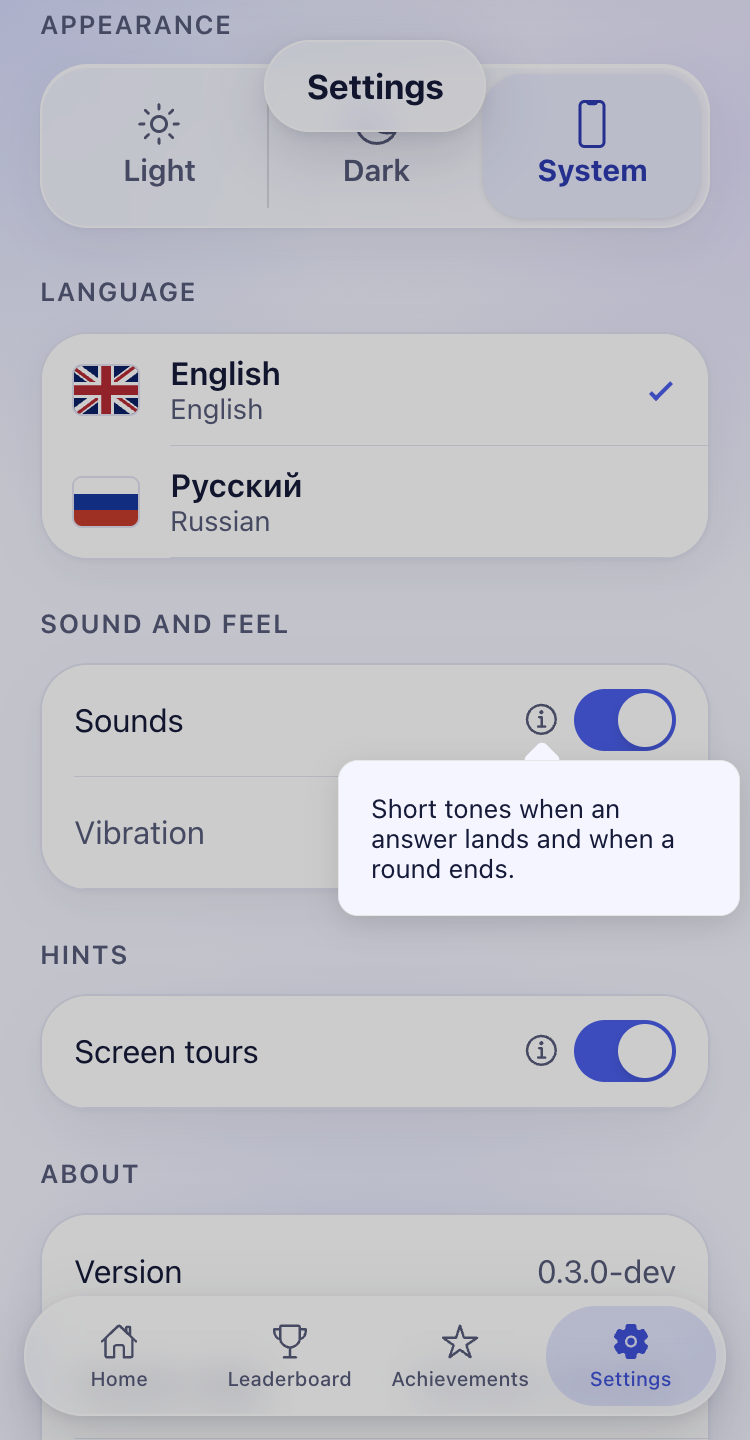
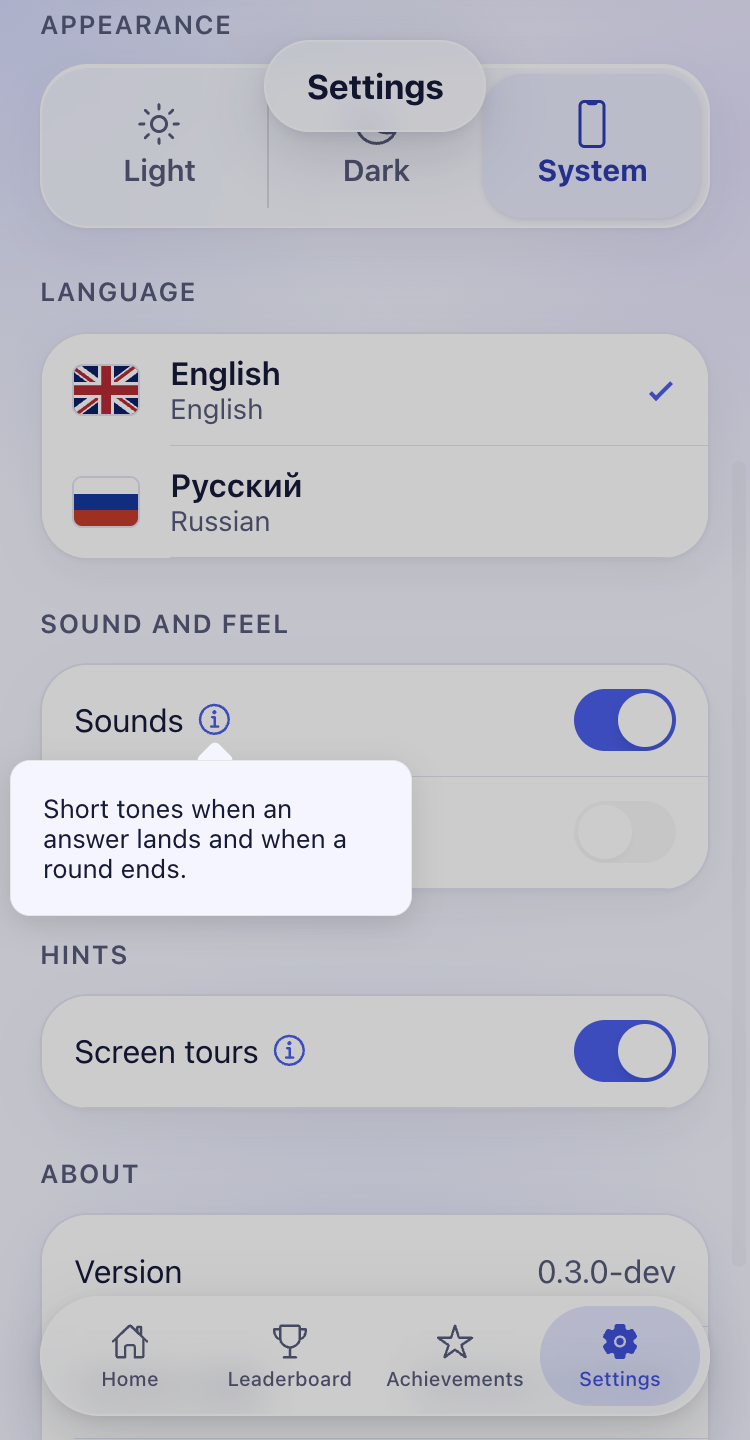
docs: the tour as it ended up, and the one column under it

diff --git a/docs/architecture/design-system.md b/docs/architecture/design-system.md
@@ -23,14 +23,14 @@ applies them to `:root` and Ionic's `:root.ion-palette-dark`, the site to
 Components use semantic names only (`--wq-color-surface`, never `#ffffff`), so
 the palette can change in one place.
 
-| Group              | Tokens                                                                                                                                                                                                                                               |
-| ------------------ | ---------------------------------------------------------------------------------------------------------------------------------------------------------------------------------------------------------------------------------------------------- |
-| Brand              | `primary`, `primary-bright`, `primary-strong`, `on-primary`, `primary-container`, `on-primary-container`, `accent`, `lavender`                                                                                                                       |
-| Surfaces           | `background`, `surface`, `surface-secondary`, `glass-surface`, `glass-border`, `glass-highlight`, `tab-bar-glass`, `border`, `overlay`                                                                                                               |
-| Segmented controls | `segment-background`, `segment-indicator`, `segment-checked`                                                                                                                                                                                         |
-| Text               | `text-primary`, `text-secondary`                                                                                                                                                                                                                     |
-| Feedback           | `success`, `error`, `warning` and their `-container` variants                                                                                                                                                                                        |
-| Other              | `aurora-1..3` (background), `radius-*`, `shadow-card/raised/floating`, `drop-shadow-control` (a `filter` for shapes that are not their box, e.g. an iframe), `space-*`, `duration-*`, `easing-standard`, `touch-target` (44 px), `tab-bar-clearance` |
+| Group              | Tokens                                                                                                                                                                                                                                                                                                                      |
+| ------------------ | --------------------------------------------------------------------------------------------------------------------------------------------------------------------------------------------------------------------------------------------------------------------------------------------------------------------------- |
+| Brand              | `primary`, `primary-bright`, `primary-strong`, `on-primary`, `primary-container`, `on-primary-container`, `accent`, `lavender`                                                                                                                                                                                              |
+| Surfaces           | `background`, `surface`, `surface-secondary`, `glass-surface`, `glass-border`, `glass-highlight`, `tab-bar-glass`, `border`, `overlay`                                                                                                                                                                                      |
+| Segmented controls | `segment-background`, `segment-indicator`, `segment-checked`                                                                                                                                                                                                                                                                |
+| Text               | `text-primary`, `text-secondary`                                                                                                                                                                                                                                                                                            |
+| Feedback           | `success`, `error`, `warning` and their `-container` variants; `hint` (a tour's bulb)                                                                                                                                                                                                                                       |
+| Other              | `aurora-1..3` (background), `radius-*`, `shadow-card/raised/floating`, `drop-shadow-control` (a `filter` for shapes that are not their box, e.g. an iframe), `space-*`, `content-max-width`/`content-gutter`/`content-width` (the one column), `duration-*`, `easing-standard`, `touch-target` (44 px), `tab-bar-clearance` |
 
 ### Light and dark
 
@@ -137,14 +137,15 @@ is supported in Chromium and WebKit; where it is not, the enhancement stays on.
 
 ## Components
 
-| Component          | Purpose                                                                                          | Accessibility                                                                                                                |
-| ------------------ | ------------------------------------------------------------------------------------------------ | ---------------------------------------------------------------------------------------------------------------------------- |
-| `wq-progress-bar`  | Thin gradient bar; `primary`, `success` or `warning` tone (the last for a countdown running out) | `role="progressbar"` with `aria-valuemin/max/now`, a label and a translated `aria-valuetext` ("3 of 44"); values are clamped |
-| `wq-progress-card` | Heading, big `value / max`, bar, caption row; `solid` or `glass`                                 | The visual number is `aria-hidden`; the bar carries the accessible value                                                     |
-| `wq-empty-state`   | Icon, heading, message, projected actions for empty, unavailable and offline states              | `role="status"`; decorative icon hidden                                                                                      |
-| `wq-toast-host`    | The one transient message: a confirmation or a failure, at the bottom over the chrome            | A new element per message, `role="alert"` for a failure and `role="status"` for a confirmation; its close button is labelled |
-| `wq-tour-step`     | One step of a guided tour: what to look at, how far along it is, and the way on                  | The text is the live region (`aria-live="polite"`) and the dots are labelled; the page makes everything else `inert`         |
-| `wq-info-button`   | The "i" beside a setting, and the note it opens in a popover                                     | A real button named after what it explains ("About Sounds"); the popover carries the same name                               |
+| Component           | Purpose                                                                                                          | Accessibility                                                                                                                |
+| ------------------- | ---------------------------------------------------------------------------------------------------------------- | ---------------------------------------------------------------------------------------------------------------------------- |
+| `wq-progress-bar`   | Thin gradient bar; `primary`, `success` or `warning` tone (the last for a countdown running out)                 | `role="progressbar"` with `aria-valuemin/max/now`, a label and a translated `aria-valuetext` ("3 of 44"); values are clamped |
+| `wq-progress-card`  | Heading, big `value / max`, bar, caption row; `solid` or `glass`                                                 | The visual number is `aria-hidden`; the bar carries the accessible value                                                     |
+| `wq-empty-state`    | Icon, heading, message, projected actions for empty, unavailable and offline states                              | `role="status"`; decorative icon hidden                                                                                      |
+| `wq-toast-host`     | The one transient message: a confirmation or a failure, at the bottom over the chrome                            | A new element per message, `role="alert"` for a failure and `role="status"` for a confirmation; its close button is labelled |
+| `wq-tour-step`      | One step of a guided tour: what to look at, how far along it is, and the way on, next to the section it is about | The text is the live region (`aria-live="polite"`) and the dots are labelled; the page makes everything else `inert`         |
+| `wq-tour-spotlight` | The dimming layer of a tour, with a rounded window in it where the step's own section is                         | `aria-hidden`: it is decoration, and the tour's words are in the step's card                                                 |
+| `wq-info-button`    | The "i" after a setting's name, and the note it opens in a popover                                               | A real button named after what it explains ("About Sounds"); the popover carries the same name                               |
 
 UI components are **i18n-free**: they receive already translated strings.
 Ionic components (tabs, segments, lists, radios, badges) are used directly
@@ -246,9 +247,24 @@ otherwise pull all of them into its own scope.
 - **`wq-segment-pill`:** a variant with fully rounded ends, for compact filters.
 - Scrollable segments hide the scrollbar.
 
-Global helpers in `_base.scss`: `.wq-page` (max width 720 px for tablet and
-web), `.wq-section`, `.wq-section-title`, `.wq-card`, `.wq-text-secondary`,
-`.wq-visually-hidden`.
+Global helpers in `_base.scss`: `.wq-page`, `.wq-section`,
+`.wq-section-title`, `.wq-card`, `.wq-text-secondary`, `.wq-visually-hidden`.
+
+### One column
+
+Everything on a screen lays out to the same column: `--wq-content-max-width`
+(720 px) centred, with `--wq-content-gutter` (20 px) at the sides, so
+`--wq-content-width` is what a thing in it may be. `.wq-page` is that column,
+and so is every bar that floats over it — the page header, the tab bar, the
+action bar, a message and a tour's card.
+
+They used to be a narrower column of their own (560 px, 12 px from the edge),
+which on a phone was 8 px wider than the cards and on a tablet 160 px
+narrower: the back button started inside the content it belonged to and the
+tab bar looked like a different page's. The tab bar subtracts its own padding
+and borders from the width as well as from the height — Ionic forces
+`box-sizing: content-box` inside its shadow DOM, so an unadjusted
+`max-width` makes the capsule 10 px wider than everything else.
 
 ### An offer in a row
 
@@ -367,14 +383,97 @@ Start without ever noticing that the type, the region, the difficulty and
 the mode are theirs to pick.
 
 - **One step at a time.** The part the step is about is left exactly as it
-  is; everything else gets `.wq-tour-aside` — blurred and faded — and
-  `inert`, which takes it out of reach of taps, of the Tab key and of the
-  screen reader at once. The step's own section is scrolled into view.
-- **The card stands where the page's action stands**, in the chrome's glass
-  (`wq-tour-step`): while the tour runs there is one thing to press, and the
-  quiz cannot be started before the player has seen the four choices — the
-  Start button is not rendered yet, so it cannot be reached by any means,
-  not only hidden behind something.
+  is — real colours, real contrast — and `wq-tour-spotlight` dims the rest
+  of the screen around it: one fixed layer whose `clip-path` has a window in
+  it where the section is, with corners as round as a card's. The window is
+  a second subpath of a `path()` wound the opposite way round, which the
+  default fill rule leaves out of the shape; `polygon()` cannot round a
+  corner, and an `evenodd` fill rule inside it is younger than the browsers
+  the app supports. The sections the step is not about are also `inert`,
+  which takes them out of reach of taps, of the Tab key and of the screen
+  reader at once.
+
+  A hole, not a blur over everything else. Blurring said "these are out of
+  focus" where the point is "this one", and it changed the look of the very
+  controls the tour was explaining. A hole is also left out of hit testing,
+  so the step's section stays usable while the rest of the screen is not.
+
+  The layer sits **below the floating header** and above everything else
+  (`z-index: 9` against the header's 10): a tour has no "Skip", so the way
+  off the screen must stay lit and usable. Ionic's own `ion-popover` was
+  considered for the step's words and refused: its backdrop covers the
+  whole screen, the element it is anchored to included, and nothing inside
+  an `ion-content` can be raised above an overlay in Ionic's layer.
+
+- **The card stands next to the section it is about**, in the chrome's glass
+  (`wq-tour-step`): under it when there is room between the section and the
+  bottom chrome, over it when there is not, and at the foot of the screen —
+  where the page's action normally is — for a section too tall for either
+  side. The words and the thing they are about are then read in one glance.
+  It is still the only thing to press: the Start button is not rendered
+  while the tour runs, so it cannot be reached by any means, not only
+  hidden behind something. The host element is the band the card may stand
+  in and lets taps through; only the card itself takes them.
+
+  The card is two rows: what the step says, with the way on beside it, and
+  the dots underneath, centred. The button under the words made the card as
+  tall as its emptiest half; beside them it costs nothing, because the row
+  is already the height of a touch target. Its bulb is the **filled** icon in
+  `--wq-color-hint` on a disc of `--wq-color-surface`, like the mode icons
+  of the quiz setup: a hint is neither an action nor a warning, so in the
+  app's blue the bulb read as one more control, the outline version of the
+  icon was too faint to carry a colour at all, and a bare yellow glyph read
+  as a stray mark on glass that shows whatever the page behind it happens
+  to be. The disc gives the yellow the colour it was chosen against, which
+  is why each theme holds its own (mango on white, a brighter one on the
+  dark card).
+
+  The card is **exactly as wide as the window** around the same section,
+  because both are computed from that one rectangle with the same room at
+  the sides (`TOUR_WINDOW_ROOM`, narrower than the room above and below so
+  that the two land on the page's own column). A card of its own fixed width
+  looked like a second column on a wide screen, and like a mistake on a
+  narrow one.
+
+  Both the window and the card are placed from **one measurement** of the
+  section (`trackRect`), taken every frame. Listening for the scroll does
+  not work: a scroll event is not composed, so it never leaves the shadow
+  root of the element Ionic actually scrolls, and a window listener in the
+  capture phase hears nothing while the page moves. The step's section is
+  scrolled to the **top** of the page (`scroll-margin-top` puts it under the
+  floating header), which leaves the room below it to the card; while the
+  tour runs the page keeps a screen's worth of empty space at its foot, or
+  the last section could not reach the top at all.
+
+  The band the card is placed in is bounded by the header clearance and the
+  bottom chrome inset. Above it is the strip iOS 26/27 smear anything with
+  a crisp horizontal edge over (CLAUDE.md), and the card has one.
+
+- **The tour does not travel.** A layer placed from a rectangle cannot ride
+  a scroll: the page is moved by the browser and the layer by us, a frame
+  later, which reads as a shiver rather than a slide. So between two steps
+  the card fades out where it stood, the screen is dim all over while the
+  next section scrolls into view, and the card fades in beside it — with the
+  next step's words, which it takes while it is out of sight, so that what
+  it says and where it stands change together. Out of sight it is also out
+  of reach (`pointer-events: none`), or a tap into the gap would skip a step
+  nobody saw.
+
+  Both layers also leave with the page (`wqFadesWithPage`, as the header and
+  the action bar do): Ionic keeps a page alive for the length of its
+  transition, so a tour left by the back button stayed lit over the screen
+  the player had already arrived at. The dimming layer needs the rule in its
+  own stylesheet, after the one that shows it — a global class cannot
+  outweigh the component's own `:host(.measured)`.
+
+  `whenArrived` is what holds it back: `null` from the moment the tracked
+  element changes until it has stood in one place for a frame. Only a change
+  of **section** starts that wait — a page the player scrolls themselves
+  keeps the window on its section, frame by frame, where hiding the tour on
+  every touch would be its own kind of flicker. The dimming itself never
+  blinks: it fades in once, when the tour starts, and stays until the tour
+  ends.
+
 - **It is not a message.** Nobody did anything to cause it, so nothing is on
   a timer. Only the step's text is a live region: the card stays, and the
   button beside it would be re-announced on every step.
@@ -407,9 +506,30 @@ a popover anchored to the press, the way iOS points at the thing it
 explains. The rows stay a list of settings, and nothing is explained to a
 player who did not ask.
 
+The `i` stands **right after the setting's name**, close to it (Ionic's own
+gap after a label is for a control at the far end of the row, so the rows
+that carry a note give it back), not out by the control:
+the note is about the name, and a row that ends in two things to press says
+nothing about which of them does what. It is drawn in the app's primary
+colour, like everything else on a page that answers a tap — in the
+secondary text colour it read as a disabled control. Ionic's label grows to
+fill its row by itself, so the rows that carry a note hand that growth back
+(`.setting ion-label`).
+
 A **disabled** control is the exception: it has to say why without being
 asked, so the vibration toggle keeps its reason in a visually hidden
 paragraph it points at with `aria-describedby`, as well as behind the `i`.
+Its name is dimmed the way Ionic dims a disabled control, with
+`opacity: 0.5` — in the secondary text colour it still read as an ordinary
+label next to the rows above it, and the row said "unavailable" only
+through the toggle. The opacity is on the **label alone**, not on the row:
+`disabled` on an `ion-item` also takes the row's pointer events, and the
+`i` next to that name is where the reason is written. Half opacity leaves
+the name at 3.3:1, under AA: the text of an inactive control is exempt
+(WCAG 1.4.3), and the name carries `aria-disabled` so that the exemption is
+stated rather than waived in the test — axe reads it and skips the check,
+while screen readers ignore it on a label and never pass it on to the
+`i` button beside it, which is still operable.
 
 ### The on-screen keyboard (Hard mode)
 

diff --git a/CLAUDE.md b/CLAUDE.md
@@ -139,8 +139,8 @@ Read `docs/architecture/site.md` and ADR-003. Key points:
 - **Sign-in is required before playing** (ADR-011): `/welcome` is the only public route; `signedInGuard` waits for `AuthStore.whenRestored()`, claims the device for a signed-in player, and lets an `unverified` (offline) player in only if they own the device's data. `provideSignInFlow()` returns to `/welcome` (new navigation root) when a sign-in ends.
 - Sign-in on the web (`client/auth`, Settings → Account): Google's button via Google Identity Services (not the Capacitor social-login plugin — its web code stores tokens in `localStorage`); the access token only in `AuthStore` memory, the refresh token only in the httpOnly cookie; `provideAuth()` restores at start-up; `authInterceptor` adds `Bearer` to `API_URL` requests only and renews **once, shared** on 401, and across tabs under a Web Lock (parallel refreshes would trip reuse detection). Only a 401 from `/v1/auth/refresh` signs out; offline, 5xx, 429 or a contract error keep the player signed in, or `unverified` at start-up. Google's button gets a fresh nonce after every attempt. API URL and Google client id are **read at start-up** from `config.json`, not compiled in (`apps/shell/src/app/runtime-config.ts`, ADR-012); `appConfig(runtime)` takes them as an argument and `bootstrap.ts` loads them first.
 - **Messages** (`client/ui`, design-system.md): `Toasts` holds one transient message and `wq-toast-host`, rendered once in `App` outside the router outlet, shows it at the bottom over the chrome; the shell's `AccountNotices` picks the text, because `client/ui` has no translations. A toast reports the outcome of an action the player just took (name saved, sign-in failed, signed out, account deleted, a retry that failed again, a challenge that could not be started, results that finally reached the account after waiting offline); a standing fact about a screen — a refused result, an empty board, offline, the nickname rules — stays on that screen. A failure is `role="alert"` and lasts longer, a confirmation is `role="status"`, and every message is rendered as a **new element** (`@for` over a list of at most one) or a screen reader may not announce it.
-- **Hints** (`wq-tour-step` in `client/ui`, `TipsStore` in `apps/shell/src/app/core`, design-system.md): a screen whose point is easy to miss gets a guided tour, one step per choice; the quiz setup has the first (type → region → difficulty → mode). The step's section is left alone and scrolled into view, everything else gets `.wq-tour-aside` (blur) plus `inert`, and the tour's card replaces the page's action bar, so the quiz cannot start until the tour is over. It runs once: what has been seen and whether tours are wanted at all live in `KEY_VALUE_STORAGE` with the settings — they belong to the device, not to the account, so signing out does not bring a tour back. `provideTips()` loads them before the first render. Settings → Screen tours is one switch for `TipsStore.on()` ("a tour is still going to appear"): it goes off by itself once the last one is walked, turning it on forgets what was seen, and turning it off refuses later tours too — hence the separate `enabled` flag. `.wq-row` in `client/ui/src/styles/_base.scss` is the shared "what it is + a pill action" row (Home's Practice mistakes).
-- **A note belongs to its setting** (`wq-info-button` in `client/ui`, design-system.md): a setting's explanation sits behind an "i" on its row and opens in an `ion-popover` anchored to the press, not as a paragraph under the card — stacked notes read as one block and say nothing about which control they are for. A disabled control still explains itself without being asked: the vibration toggle keeps its reason in a `wq-visually-hidden` paragraph it points at with `aria-describedby`.
+- **Hints** (`wq-tour-step` in `client/ui`, `TipsStore` in `apps/shell/src/app/core`, design-system.md): a screen whose point is easy to miss gets a guided tour, one step per choice; the quiz setup has the first (type → region → difficulty → mode). The step's section is left alone and scrolled to the top of the page, `wq-tour-spotlight` dims the rest of the screen through a `clip-path: path()` with a rounded window where that section is (below the floating header, so the way out stays lit), the other sections are `inert`, and the tour's card stands next to that section — under it, over it, or at the foot of the screen for a section too tall for either — in place of the page's action bar, so the quiz cannot start until the tour is over. Both are placed from one measurement of the section (`trackRect`, every frame: a scroll event never leaves the shadow root of the element Ionic scrolls), and the page keeps a screen's worth of room at its foot while the tour runs, or the last section could not be scrolled to the top. Nothing travels between steps: `whenArrived` reports the section only once it has stood still for a frame, so the card fades out where it stood, takes the next step's words out of sight and fades in beside the new section (a layer placed from a rectangle lags the browser's scroll by a frame and shivers). The card is two rows — words and the way on, then the dots — is exactly as wide as the lit window (both get their sides from the same rectangle), and both leave with the page (`wqFadesWithPage`), or the tour stays lit over the screen the player has already reached. It runs once: what has been seen and whether tours are wanted at all live in `KEY_VALUE_STORAGE` with the settings — they belong to the device, not to the account, so signing out does not bring a tour back. `provideTips()` loads them before the first render. Settings → Screen tours is one switch for `TipsStore.on()` ("a tour is still going to appear"): it goes off by itself once the last one is walked, turning it on forgets what was seen, and turning it off refuses later tours too — hence the separate `enabled` flag. `.wq-row` in `client/ui/src/styles/_base.scss` is the shared "what it is + a pill action" row (Home's Practice mistakes).
+- **A note belongs to its setting** (`wq-info-button` in `client/ui`, design-system.md): a setting's explanation sits behind an "i" right after its name (in the primary colour, so it reads as something to press; the row hands back Ionic's growing label with `.setting ion-label`) and opens in an `ion-popover` anchored to the press, not as a paragraph under the card — stacked notes read as one block and say nothing about which control they are for. A disabled control still explains itself without being asked: the vibration toggle keeps its reason in a `wq-visually-hidden` paragraph it points at with `aria-describedby`. Its name is dimmed with `opacity: 0.5` on the label alone (`disabled` on the `ion-item` would also take the `i` button's taps) and carries `aria-disabled`, which is both true and what makes axe apply the contrast exemption an inactive control has.
 - **Sound and haptics** (`client/feedback`, design-system.md): `Feedback.play(event)` plays a Web Audio tone and, in the app, a taptic tap; `TONES` and `HAPTICS` default to doing nothing, so tests and server rendering need no setup, and `provideFeedback({ native })` installs the real ones. The quiz plays `correct`/`incorrect` when the verdict appears and `finished`/`celebrate` on the results. Both channels obey `SettingsStore.sound()` / `.haptics()`, and every failure is swallowed.
 - `provideAppSettings()` loads settings and the translation file in an app initializer, so theme and language apply before first render. Dark mode is Ionic's class-based palette (`ion-palette-dark` on `<html>`).
 - Translations are TypeScript objects in `libs/client/i18n/src/lib/translations/{en,ru}.ts`; `ru` must match the `TranslationShape` of `en` (compile-time + unit test). Plurals use `wqPlural` (`Intl.PluralRules`). Country names never go into translations — they come from the dataset.
@@ -206,7 +206,7 @@ Read `docs/architecture/site.md` and ADR-003. Key points:
 - **Ionic may show a cached tab page without `ionViewWillEnter`** — e.g. `navigateRoot('/leaderboard')` from a remote's results reuses the tabs and the Leaderboard page. Refresh from data signals (here `SyncService.lastSyncedAt`), not only from lifecycle hooks.
 - **Adding an Angular package fails with `ERESOLVE`** when the lockfile pins another patch: raise all framework packages to the same `~22.1.x`, delete their `node_modules/@angular/<name>` entries from `package-lock.json` and `node_modules`, then `npm install` twice and **confirm with `npm ci`** (the first pass can drop nested deps from the lockfile). Never `--legacy-peer-deps`. See troubleshooting.
 - **Angular SSR answers only allowed hosts**: the site's production server returns `400 Header "host" … is not allowed` unless `NG_ALLOWED_HOSTS` lists the host (`site:serve-ssr` sets `localhost`).
-- **Design tokens live in `libs/shared/design-tokens`** as mixins; `client/ui/src/styles/_tokens.scss` only applies them. Add a token there, for both themes.
+- **Design tokens live in `libs/shared/design-tokens`** as mixins; `client/ui/src/styles/_tokens.scss` only applies them. Add a token there, for both themes. One of them is the layout: `--wq-content-max-width` / `--wq-content-gutter` / `--wq-content-width` is the single column `.wq-page` and every floating bar (header, tab bar, action bar, a tour's card) lay out to — a bar with a width of its own does not line up with the cards under it, and `ion-tab-bar` must subtract its own padding and borders because Ionic forces `box-sizing: content-box` on it.
 - **The app bootstraps itself twice** (`main.ts` runs again under the federation's import map: `config.json` is fetched twice per load), so two `AuthStore`s exist. Anything that consumes a one-use secret must therefore read it **inside** the Web Lock, not before: the first version of the Keychain store read the refresh token up front, both instances presented the same one, and the API's reuse detection revoked the whole family — the app was signed out on every restart while every unit test passed.
 - **Assigning `RESPONSE_INIT.headers` replaces the whole header set**, including `Content-Type`. The site's leaderboard page set only `Cache-Control`, so the server-rendered page arrived without a content type and a browser offered it as a download; `cy.request`-based tests never noticed, only a real browser did (the accessibility spec).
 - **The app and the API must share one registrable domain** in a deployment: the refresh token is a `SameSite=Strict` cookie, so `app.example` + `api.example` work but a host's own free subdomains (`*.netlify.app`, `*.onrender.com`) do not — they are on the Public Suffix List, so the browser treats them as separate sites (ADR-010, deploying.md).
